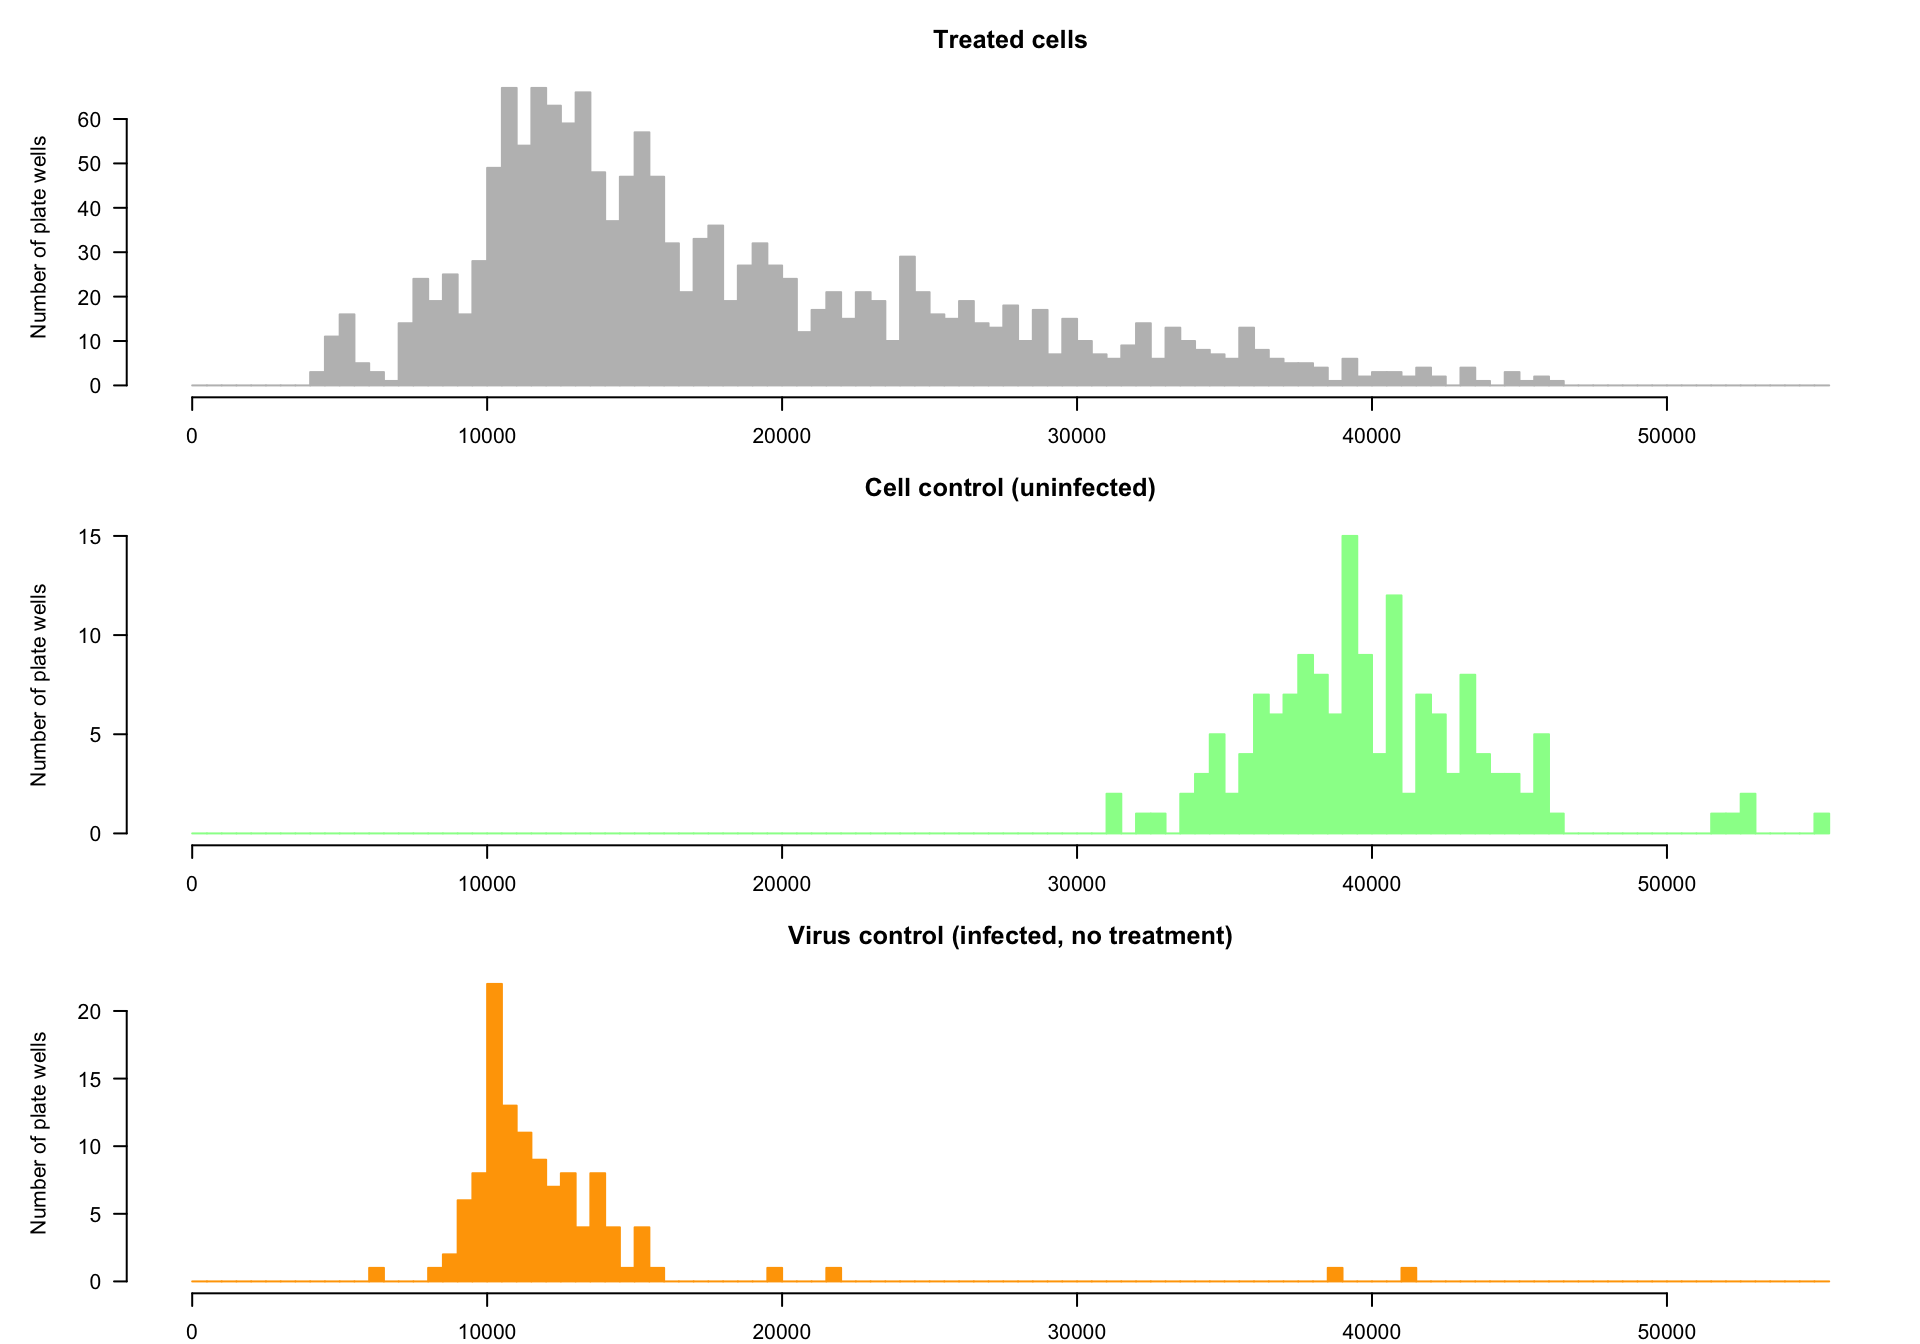
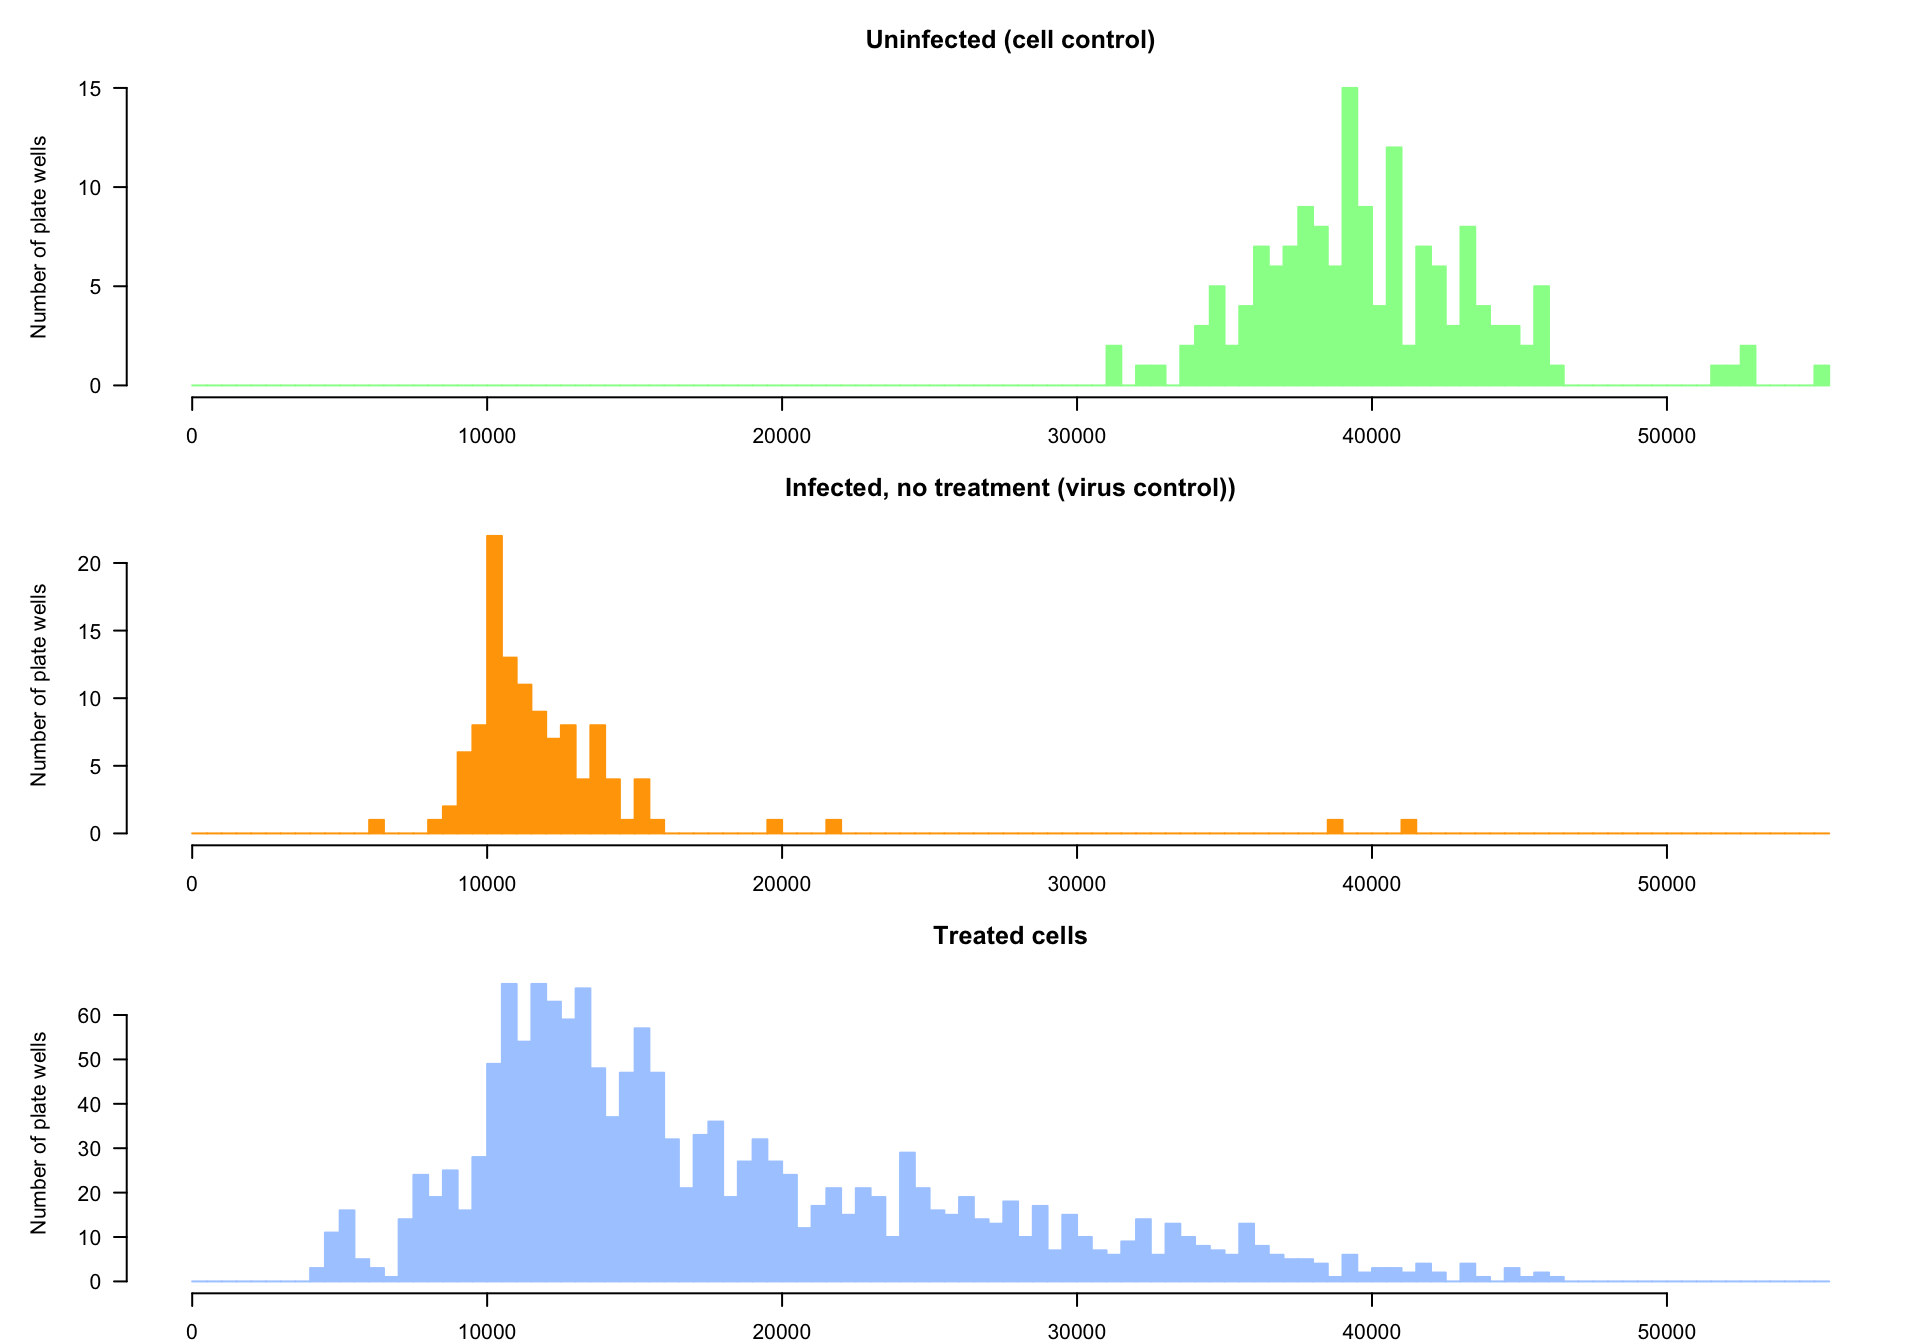
added some comments

diff --git a/reports/Touret_2020_sars-cov-2_in-vitro-screening.html b/reports/Touret_2020_sars-cov-2_in-vitro-screening.html
@@ -554,36 +554,54 @@ div.tocify {
 <a class="sourceLine" id="cb4-8" data-line-number="8"></a>
 <a class="sourceLine" id="cb4-9" data-line-number="9"><span class="kw">par</span>(<span class="dt">mfrow =</span> <span class="kw">c</span>(<span class="dv">3</span>, <span class="dv">1</span>))</a>
 <a class="sourceLine" id="cb4-10" data-line-number="10"><span class="kw">par</span>(<span class="dt">mar =</span> <span class="kw">c</span>(<span class="dv">2</span>,<span class="dv">5</span>,<span class="dv">3</span>,<span class="dv">1</span>))</a>
-<a class="sourceLine" id="cb4-11" data-line-number="11"><span class="kw">hist</span>(inhibTable[wellType <span class="op">==</span><span class="st"> &quot;treated&quot;</span>, <span class="st">&quot;viability&quot;</span>], </a>
-<a class="sourceLine" id="cb4-12" data-line-number="12">     <span class="dt">main =</span> <span class="st">&quot;Treated cells&quot;</span>,</a>
+<a class="sourceLine" id="cb4-11" data-line-number="11"><span class="kw">hist</span>(inhibTable[wellType <span class="op">==</span><span class="st"> &quot;cellCtl&quot;</span>, <span class="st">&quot;viability&quot;</span>], </a>
+<a class="sourceLine" id="cb4-12" data-line-number="12">     <span class="dt">main =</span> <span class="st">&quot;Uninfected (cell control)&quot;</span>,</a>
 <a class="sourceLine" id="cb4-13" data-line-number="13">     <span class="dt">xlab =</span> <span class="st">&quot;Viability&quot;</span>,</a>
 <a class="sourceLine" id="cb4-14" data-line-number="14">     <span class="dt">ylab =</span> <span class="st">&quot;Number of plate wells&quot;</span>,</a>
 <a class="sourceLine" id="cb4-15" data-line-number="15">     <span class="dt">las =</span> <span class="dv">1</span>, </a>
-<a class="sourceLine" id="cb4-16" data-line-number="16">     <span class="dt">breaks =</span> breaks, <span class="dt">col =</span> <span class="st">&quot;grey&quot;</span>, <span class="dt">border =</span> <span class="st">&quot;grey&quot;</span>)</a>
+<a class="sourceLine" id="cb4-16" data-line-number="16">     <span class="dt">breaks =</span> breaks, <span class="dt">col =</span> <span class="st">&quot;palegreen&quot;</span>, <span class="dt">border =</span> <span class="st">&quot;palegreen&quot;</span>)</a>
 <a class="sourceLine" id="cb4-17" data-line-number="17"></a>
-<a class="sourceLine" id="cb4-18" data-line-number="18"><span class="kw">hist</span>(inhibTable[wellType <span class="op">==</span><span class="st"> &quot;cellCtl&quot;</span>, <span class="st">&quot;viability&quot;</span>], </a>
-<a class="sourceLine" id="cb4-19" data-line-number="19">     <span class="dt">main =</span> <span class="st">&quot;Cell control (uninfected)&quot;</span>,</a>
+<a class="sourceLine" id="cb4-18" data-line-number="18"><span class="kw">hist</span>(inhibTable[wellType <span class="op">==</span><span class="st"> &quot;virusCtl&quot;</span>, <span class="st">&quot;viability&quot;</span>], </a>
+<a class="sourceLine" id="cb4-19" data-line-number="19">     <span class="dt">main =</span> <span class="st">&quot;Infected, no treatment (virus control))&quot;</span>,</a>
 <a class="sourceLine" id="cb4-20" data-line-number="20">     <span class="dt">xlab =</span> <span class="st">&quot;Viability&quot;</span>,</a>
 <a class="sourceLine" id="cb4-21" data-line-number="21">     <span class="dt">ylab =</span> <span class="st">&quot;Number of plate wells&quot;</span>,</a>
 <a class="sourceLine" id="cb4-22" data-line-number="22">     <span class="dt">las =</span> <span class="dv">1</span>, </a>
-<a class="sourceLine" id="cb4-23" data-line-number="23">     <span class="dt">breaks =</span> breaks, <span class="dt">col =</span> <span class="st">&quot;palegreen&quot;</span>, <span class="dt">border =</span> <span class="st">&quot;palegreen&quot;</span>)</a>
+<a class="sourceLine" id="cb4-23" data-line-number="23">     <span class="dt">breaks =</span> breaks, <span class="dt">col =</span> <span class="st">&quot;orange&quot;</span>, <span class="dt">border =</span> <span class="st">&quot;orange&quot;</span>)</a>
 <a class="sourceLine" id="cb4-24" data-line-number="24"></a>
-<a class="sourceLine" id="cb4-25" data-line-number="25"><span class="kw">hist</span>(inhibTable[wellType <span class="op">==</span><span class="st"> &quot;virusCtl&quot;</span>, <span class="st">&quot;viability&quot;</span>], </a>
-<a class="sourceLine" id="cb4-26" data-line-number="26">     <span class="dt">main =</span> <span class="st">&quot;Virus control (infected, no treatment)&quot;</span>,</a>
+<a class="sourceLine" id="cb4-25" data-line-number="25"><span class="kw">hist</span>(inhibTable[wellType <span class="op">==</span><span class="st"> &quot;treated&quot;</span>, <span class="st">&quot;viability&quot;</span>], </a>
+<a class="sourceLine" id="cb4-26" data-line-number="26">     <span class="dt">main =</span> <span class="st">&quot;Treated cells&quot;</span>,</a>
 <a class="sourceLine" id="cb4-27" data-line-number="27">     <span class="dt">xlab =</span> <span class="st">&quot;Viability&quot;</span>,</a>
 <a class="sourceLine" id="cb4-28" data-line-number="28">     <span class="dt">ylab =</span> <span class="st">&quot;Number of plate wells&quot;</span>,</a>
 <a class="sourceLine" id="cb4-29" data-line-number="29">     <span class="dt">las =</span> <span class="dv">1</span>, </a>
-<a class="sourceLine" id="cb4-30" data-line-number="30">     <span class="dt">breaks =</span> breaks, <span class="dt">col =</span> <span class="st">&quot;orange&quot;</span>, <span class="dt">border =</span> <span class="st">&quot;orange&quot;</span>)</a></code></pre></div>
+<a class="sourceLine" id="cb4-30" data-line-number="30">     <span class="dt">breaks =</span> breaks, <span class="dt">col =</span> <span class="st">&quot;#AACCFF&quot;</span>, <span class="dt">border =</span> <span class="st">&quot;#AACCFF&quot;</span>)</a></code></pre></div>
 <div class="figure" style="text-align: center">
-<img src="figures/touret_sars-cov-2_inhibitorsraw_viab_distrib-1.png" alt="Distributions of the raw viability measures. " width="80%" />
+<img src="figures/touret_sars-cov-2_inhibitorsraw_viab_distrib-1.png" alt="Distributions of the raw viability measures. Top: uninfected cells. Middle: infected cells without treatment. Bottom: infected cells treated with a specific molecule. " width="80%" />
 <p class="caption">
-Distributions of the raw viability measures.
+Distributions of the raw viability measures. Top: uninfected cells. Middle: infected cells without treatment. Bottom: infected cells treated with a specific molecule.
 </p>
 </div>
 <div class="sourceCode" id="cb5"><pre class="sourceCode r"><code class="sourceCode r"><a class="sourceLine" id="cb5-1" data-line-number="1"><span class="kw">par</span>(par.ori)</a></code></pre></div>
-<p>The distribution is strongly asymmetrical, and seems bi- or multi-modal. This probably reflects the presence of a mixture of distribution, comprising</p>
 <ul>
-<li>controls: uninfected cells</li>
+<li><p><strong><em>Cell control</em></strong>.</p>
+<ul>
+<li>The top panel (green) shows the distribution of viability measurements in controls cultures, where the cells were neither infected by the virus nor treated with a drug.</li>
+<li>Each plate contains 8 wells with uninfected cells (total = 152).</li>
+</ul></li>
+<li><p><strong><em>Virus control</em></strong>.</p>
+<ul>
+<li>The middle panel (orange) shows the distribution of viability measurements in infected cells without drug treatment</li>
+<li>The virus control was performed on 6 wells per plate, total = 114).</li>
+</ul></li>
+<li><p><strong><em>Treated cells</em></strong>.</p>
+<ul>
+<li><p>The bottom distribution (pale blue) shows the viability values for cells infected and treated with a given drug.</p></li>
+<li><p>Note that each drug was tested on a single well (no replicates). Indeed, in order to face the COVID-19 emergency, the study attempted to test as fast as possible a wide range of molecules. This first screening was thus performed without replicates. This has to be taken into account for the normalisation, which should be done with no estimation of the variance for the individual drugs.</p></li>
+<li><p>The distribution is strongly asymmetrical, and seems bi- or multi-modal. This distribution can be considered as a mixture between different distributions</p>
+<ul>
+<li>all the drugs that have no inhibitory effect (and are thus expected to have a viability similar to the virus control)</li>
+<li>various drugs that inhibit the action of the virus, each one with its specific level of inhibition. This probably corresponds to the widely dispersed values above the bulk of distribution (and above the virus control distribution)</li>
+</ul></li>
+</ul></li>
 </ul>
 </div>
 </div>
